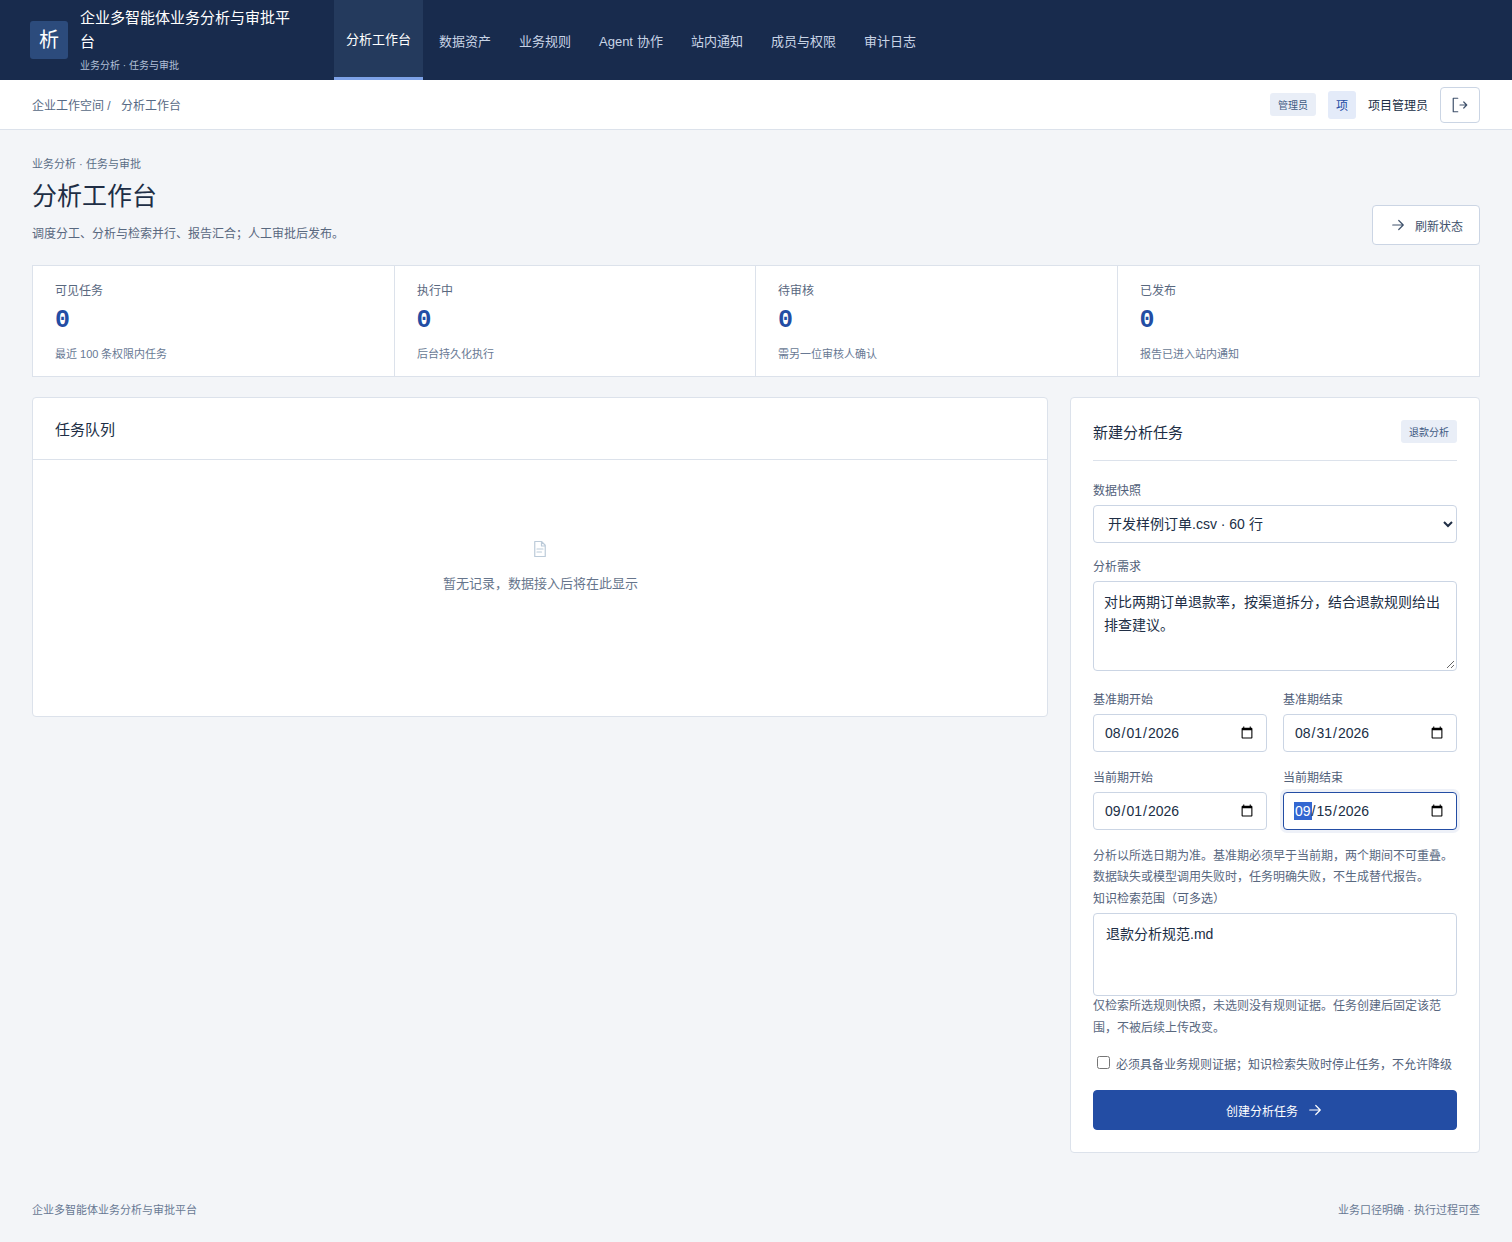
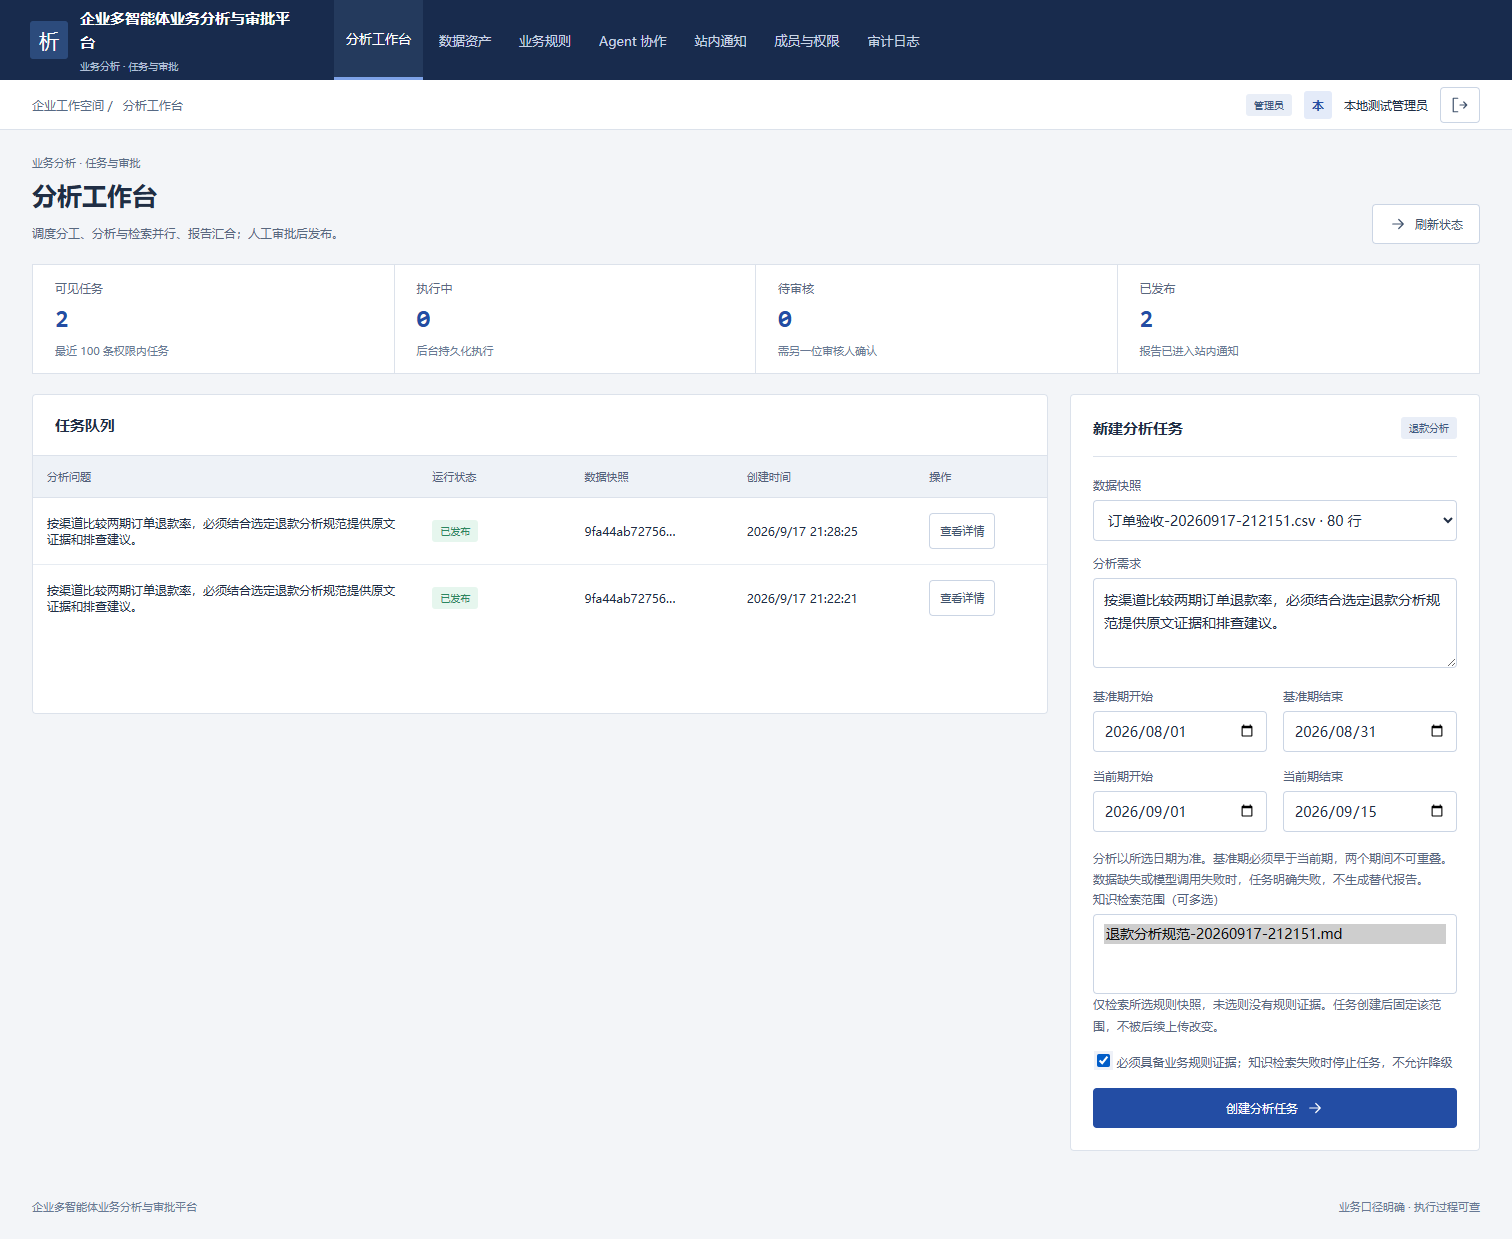
fix(api): 完成多Agent真实执行与审批通知闭环
修复JSON协议接入与有界格式纠正，补充回归测试、通知回看、手机轨迹布局及15张运行截图。

diff --git a/web/app.js b/web/app.js
@@ -18,6 +18,7 @@ import {
 } from "./common.js";
 let selectedTask = null;
 let pollTimer = null;
+let workspaceUserId = null;
 const agentNames = {
   conductor: "调度 Agent",
   analysis: "数据分析 Agent",
@@ -208,17 +209,16 @@ async function tasks() {
     });
     selectedTask = result.id;
     await tasks();
-    await detail(result.id);
   });
   on("#refresh", async () => {
     await tasks();
-    if (selectedTask) await detail(selectedTask);
   });
   on(".task-detail", async (el) => {
     selectedTask = el.dataset.id;
     await detail(selectedTask);
     $("#task-detail").scrollIntoView({ behavior: "smooth", block: "start" });
   });
+  if (selectedTask) await detail(selectedTask);
 }
 async function detail(id) {
   clearTimeout(pollTimer);
@@ -371,18 +371,25 @@ async function notifications() {
     head(
       "INBOX",
       "站内通知",
-      "仅发布已通过审核的报告，不向外部邮件或消息平台模拟发送。",
+      "查看已审核发布的报告，点击通知返回对应任务详情。",
     ) +
     '<div class="card">' +
     table(
-      ["通知内容", "报告任务", "发布时间"],
+      ["通知内容", "报告任务", "发布时间", "操作"],
       rows.map((n) => [
         '<span class="badge good">报告已审核发布</span>',
         esc(n.task_id),
         date(n.created_at),
+        '<button class="btn small notification-detail" data-id="' +
+          esc(n.task_id) +
+          '">查看报告</button>',
       ]),
     ) +
     "</div>";
+  on(".notification-detail", (el) => {
+    selectedTask = el.dataset.id;
+    location.hash = "#tasks";
+  });
 }
 start({
   id: "insight",
@@ -413,5 +420,12 @@ start({
     { id: "users", label: "成员与权限", icon: "users", admin: true },
     { id: "audit", label: "审计日志", icon: "shield", admin: true },
   ],
-  render: (page) => ({ tasks, datasets, rules, agents, notifications })[page](),
+  render: (page) => {
+    if (workspaceUserId !== currentUser().id) {
+      workspaceUserId = currentUser().id;
+      selectedTask = null;
+      clearTimeout(pollTimer);
+    }
+    return { tasks, datasets, rules, agents, notifications }[page]();
+  },
 });

diff --git a/web/analysis.css b/web/analysis.css
@@ -486,6 +486,13 @@ td {
     line-height: 1.7;
   }
 }
+#task-detail .evidence {
+  min-width: 0;
+  overflow-wrap: anywhere;
+}
+#task-detail .muted {
+  overflow-wrap: anywhere;
+}
 @media (prefers-reduced-motion: reduce) {
   .spinner {
     animation: none;

diff --git a/app/agents.py b/app/agents.py
@@ -73,15 +73,23 @@ class JsonModel:
                             "model": model,
                             "temperature": 0,
                             "max_tokens": 1800,
+                            **({"thinking": {"type": os.environ["MODEL_THINKING"]}}
+                               if os.getenv("MODEL_THINKING") in {"enabled", "disabled"} else {}),
                             "messages": messages,
                             "response_format": {"type": "json_object"},
                         },
                     )
                     response.raise_for_status()
                     body = response.json()
-                    decision = json.loads(body["choices"][0]["message"]["content"])
+                    try:
+                        decision = json.loads(body["choices"][0]["message"]["content"])
+                    except json.JSONDecodeError:
+                        # Never pick the first object from multiple decisions.
+                        # Invalid content enters the bounded runtime repair path
+                        # while retaining real usage accounting for this call.
+                        decision = {}
                     if not isinstance(decision, dict):
-                        raise AgentError("模型响应不是对象")
+                        decision = {}
                     return ModelReply(
                         decision,
                         model,
@@ -168,7 +176,12 @@ class AgentRuntime:
             {
                 "role": "system",
                 "content": PROMPTS[role]
-                + "\n"
+                + "\n每轮只返回一个JSON决策对象，顶层只能有action、tool、arguments、output。"
+                + "调用工具时action=tool，tool为工具名称，arguments为参数，output={}。"
+                + "单轮只能调用一个工具，不能拼接多个JSON；返回工具决策后立即停止，等待下一轮的tool_observation再决策。"
+                + "结束时action=final，tool=null，arguments={}，output填写output_schema要求的业务结果。"
+                + "下方是输入配置，不要返回或复制protocol、tools、output_schema、recommendations这些配置字段。"
+                + "不要Markdown代码围栏。\n输入配置：\n"
                 + json.dumps(
                     {
                         "protocol": protocol,
@@ -217,7 +230,21 @@ class AgentRuntime:
                     model_calls=calls,
                     total_tokens=tokens,
                 )
-                decision = Decision.model_validate(reply.decision)
+                try:
+                    decision = Decision.model_validate(reply.decision)
+                except ValidationError as error:
+                    # A format repair spends the SAME four-turn budget. It does
+                    # not execute tools or relax authorization/citation checks.
+                    record({"kind": "format_repair", "turn": turn + 1})
+                    if turn == 3:
+                        raise AgentError("Agent输出格式未在预算内修正") from error
+                    messages.extend([
+                        {"role": "assistant", "content": json.dumps(reply.decision, ensure_ascii=False)},
+                        {"role": "user", "content": "格式错误。只返回JSON决策对象："
+                         '{"action":"final","tool":null,"arguments":{},"output":{业务结果字段}}。'
+                         "需要工具则action=tool。不要返回配置字段，业务结果必须满足output_schema。"},
+                    ])
+                    continue
                 if decision.action == "final":
                     if decision.tool is not None or decision.arguments:
                         raise AgentError("final不得附带工具调用")

diff --git a/tests/test_multi_agent.py b/tests/test_multi_agent.py
@@ -2,7 +2,7 @@ import json
 import threading
 import pytest
 from sqlalchemy import select
-from app.agents import AgentError, ToolDenied, search_rules
+from app.agents import AgentError, ModelReply, ToolDenied, search_rules
 from app.models import AgentRun, Notification, Task
 from app.platform import LeaseLost, uid
 from test_production_platform import headers
@@ -25,6 +25,37 @@ def create_with_rule(environment):
     payload["rule_ids"] = [rule.json()["id"]]
     task = client.post("/api/tasks", headers=analyst, json=payload).json()
     return app, client, admin, analyst, reviewer, task, rule.json()
+
+
+def test_decision_format_repair_is_bounded_and_does_not_execute_tools(environment):
+    app, client, admin, analyst, reviewer, task, rule = create_with_rule(environment)
+    original = app.state.insight.agent_model
+    bad = [True]
+
+    def repair_once(role, messages):
+        if role == "conductor" and bad[0]:
+            bad[0] = False
+            return ModelReply({"protocol": {}}, "test-format", 5)
+        return original(role, messages)
+
+    app.state.insight.agent_model = repair_once
+    app.state.handle_job(environment.claim())
+    traces = client.get("/api/tasks/" + task["id"] + "/agents", headers=analyst).json()
+    run = next(r for r in traces if r["agent"] == "conductor")
+    assert run["state"] == "succeeded" and run["model_calls"] == 2
+    assert any(e["kind"] == "format_repair" for e in run["events"])
+    assert not any(e["kind"] == "tool" for e in run["events"])
+
+
+def test_repeated_decision_format_errors_exhaust_existing_budget(environment):
+    app, client, admin, analyst, reviewer, task, rule = create_with_rule(environment)
+    app.state.insight.agent_model = lambda role, messages: ModelReply({"protocol": {}}, "test-format", 5)
+    with pytest.raises(AgentError, match="预算内修正"):
+        app.state.handle_job(environment.claim())
+    traces = client.get("/api/tasks/" + task["id"] + "/agents", headers=analyst).json()
+    assert len(traces) == 1 and traces[0]["model_calls"] == 4
+    assert traces[0]["state"] == "failed"
+    assert client.get("/api/tasks/" + task["id"], headers=analyst).json()["result"] == {}
 
 
 def test_four_independent_agents_parallel_join_and_durable_trace(environment):
@@ -52,6 +83,7 @@ def test_four_independent_agents_parallel_join_and_durable_trace(environment):
     knowledge = next(r for r in traces if r["agent"] == "knowledge")
     assert any(e.get("name") == "search_rules" for e in knowledge["events"])
     for role, messages in model.calls:
+        assert "json" in messages[0]["content"].lower()
         if len(messages) == 2:
             context = json.loads(messages[1]["content"])["context"]
             assert ("catalog" in context) == (role == "analysis")

diff --git a/tests/test_model_transport.py b/tests/test_model_transport.py
@@ -1,0 +1,36 @@
+"""Provider protocol tests; deliberately no network or live credentials."""
+import pytest
+from app.agents import JsonModel
+
+
+@pytest.mark.parametrize("content", ['{"action":"final"}\n{"action":"tool"}', '[]', 'not json'])
+def test_invalid_json_is_not_partially_accepted_and_usage_is_preserved(monkeypatch, content):
+    class Response:
+        def raise_for_status(self):
+            pass
+
+        def json(self):
+            return {"choices": [{"message": {"content": content}}], "usage": {"total_tokens": 73}}
+
+    class Client:
+        def __init__(self, **kwargs):
+            pass
+
+        def __enter__(self):
+            return self
+
+        def __exit__(self, *args):
+            pass
+
+        def post(self, *args, **kwargs):
+            assert kwargs["json"]["response_format"] == {"type": "json_object"}
+            assert kwargs["json"]["max_tokens"] == 1800
+            assert kwargs["json"]["thinking"] == {"type": "disabled"}
+            return Response()
+
+    monkeypatch.setenv("MODEL_BASE_URL", "https://model.example.test")
+    monkeypatch.setenv("MODEL_NAME", "test-model")
+    monkeypatch.setenv("MODEL_THINKING", "disabled")
+    monkeypatch.setattr("app.agents.httpx.Client", Client)
+    reply = JsonModel()("report", [{"role": "system", "content": "Return JSON"}])
+    assert reply.decision == {} and reply.total_tokens == 73

diff --git a/scripts/preflight.py b/scripts/preflight.py
@@ -37,6 +37,8 @@ def main():
                         "model": model,
                         "temperature": 0,
                         "max_tokens": 32,
+                        **({"thinking": {"type": os.environ["MODEL_THINKING"]}}
+                           if os.getenv("MODEL_THINKING") in {"enabled", "disabled"} else {}),
                         "messages": [
                             {"role": "user", "content": 'Return JSON: {"ok":true}'}
                         ],

diff --git a/README.md b/README.md
@@ -19,13 +19,13 @@
 
 ## 技术栈
 
-| 层次           | 技术                                            |
-| -------------- | ----------------------------------------------- |
-| API 与任务执行 | Python、FastAPI、独立 Worker                    |
-| Agent 编排     | LangGraph、独立角色上下文、受控工具调用         |
-| 数据与契约     | PostgreSQL、SQLAlchemy、Alembic、Pydantic       |
-| 规则与模型     | 中文词项检索、BM25、OpenAI-compatible API       |
-| 前端与部署     | ES Modules、CSS、Docker Compose、GitHub Actions |
+| 层次           | 技术                                                |
+| -------------- | --------------------------------------------------- |
+| API 与任务执行 | Python、FastAPI、独立 Worker                        |
+| Agent 编排     | LangGraph、独立角色上下文、受控工具调用             |
+| 数据与契约     | PostgreSQL、SQLAlchemy、Alembic、Pydantic           |
+| 规则与模型     | 中文词项检索、BM25、DeepSeek、OpenAI-compatible API |
+| 前端与部署     | ES Modules、CSS、Docker Compose、GitHub Actions     |
 
 ## 多 Agent 架构
 
@@ -95,31 +95,61 @@ flowchart TD
 
 ![创建分析任务](docs/screenshots/create-task.png)
 
-### 6. 分析工作台
+### 6. 后台任务执行
+
+提交任务后返回任务编号，后台执行过程中可查看状态与各角色进度。
+
+![后台任务与运行状态](docs/screenshots/task-running.png)
+
+### 7. 分析报告
+
+服务端计算退款指标，报告包含对比口径、分组结果、排查建议和规则原文，可下载 Markdown 文件。
+
+![多 Agent 分析报告](docs/screenshots/report.png)
+
+### 8. Agent 执行轨迹
+
+查看四类 Agent 的模型调用、Token 使用量、工具参数和状态事件。
+
+![四类 Agent 的真实执行轨迹](docs/screenshots/agent-trace.png)
+
+### 9. 独立审核
+
+由另一位审核人核对报告并填写意见，审批绑定当前报告校验值，发起人不能审核自己的报告。
+
+![审核人审批报告](docs/screenshots/approval.png)
+
+### 10. 分析工作台
 
 查看任务队列、执行状态、待审核数量和发布进度。
 
 ![分析工作台](docs/screenshots/tasks.png)
 
-### 7. 成员与权限
+### 11. 站内通知
+
+已通过审核的报告由发布作业写入发起人的站内通知。
+
+![已审核报告的站内通知](docs/screenshots/notifications.png)
+
+### 12. 从通知查看报告
+
+点击通知中的“查看报告”，回到对应任务的报告、审核意见和执行轨迹。
+
+![通知关联的报告详情](docs/screenshots/notification-report.png)
+
+### 13. 成员与权限
 
 管理员维护分析师、审核人等角色与账号状态。
 
 ![成员与权限](docs/screenshots/users.png)
 
-### 8. 操作审计
+### 14. 操作审计
 
 追踪数据导入、任务创建和管理操作。
 
 ![操作审计](docs/screenshots/audit.png)
 
-### 9. 站内通知
-
-已通过审核的报告由发布作业写入发起人的站内通知。
-
-![站内通知入口](docs/screenshots/notifications.png)
-
-### 10. 移动端访问
+### 15. 移动端访问
 
 <img src="docs/screenshots/mobile.png" alt="分析平台移动端" width="390">
 
@@ -145,6 +175,8 @@ npm test
 ```
 
 测试覆盖角色契约、并行汇合、工具权限、任务幂等、租约恢复、审批与发布。配置 `TEST_DATABASE_URL` 可运行 PostgreSQL 集成测试；实际模型流程运行参数见 `python -m scripts.acceptance --help`。
+
+本地已使用真实 DeepSeek 跑通四 Agent 执行、报告下载、独立审核和站内通知，并验证失败重试、自审限制、报告哈希校验与重复审批。运行截图使用验收订单及规则，记录见 [本地验收结果](docs/local-acceptance.json)。
 
 ## 在线访问
 
